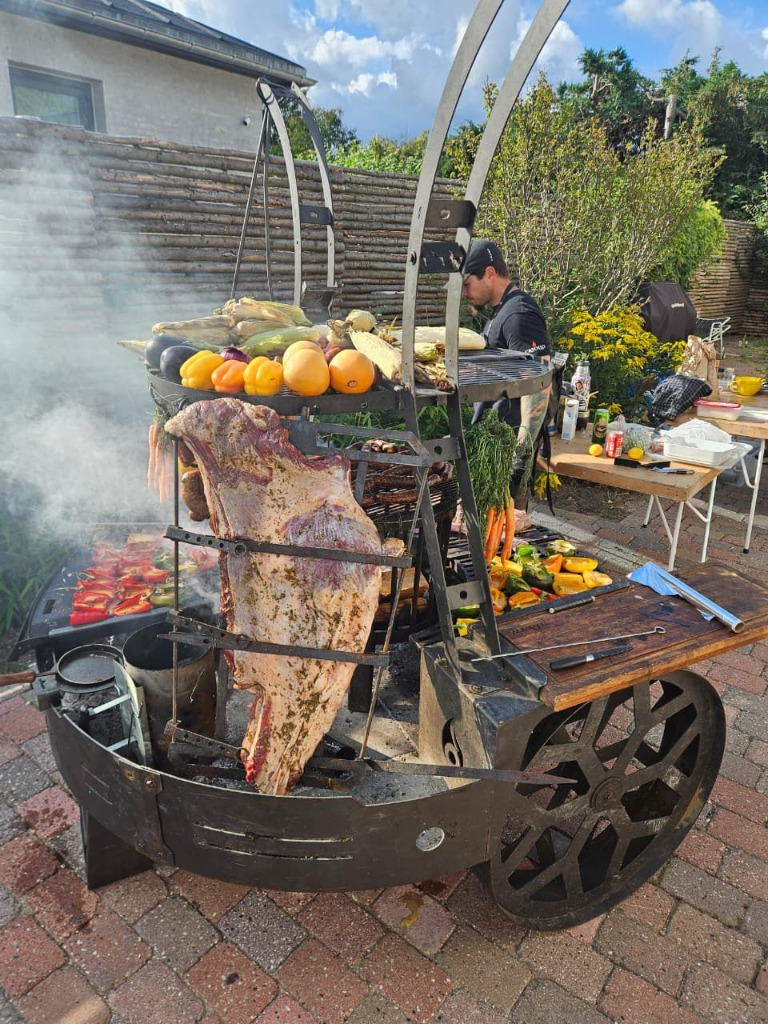
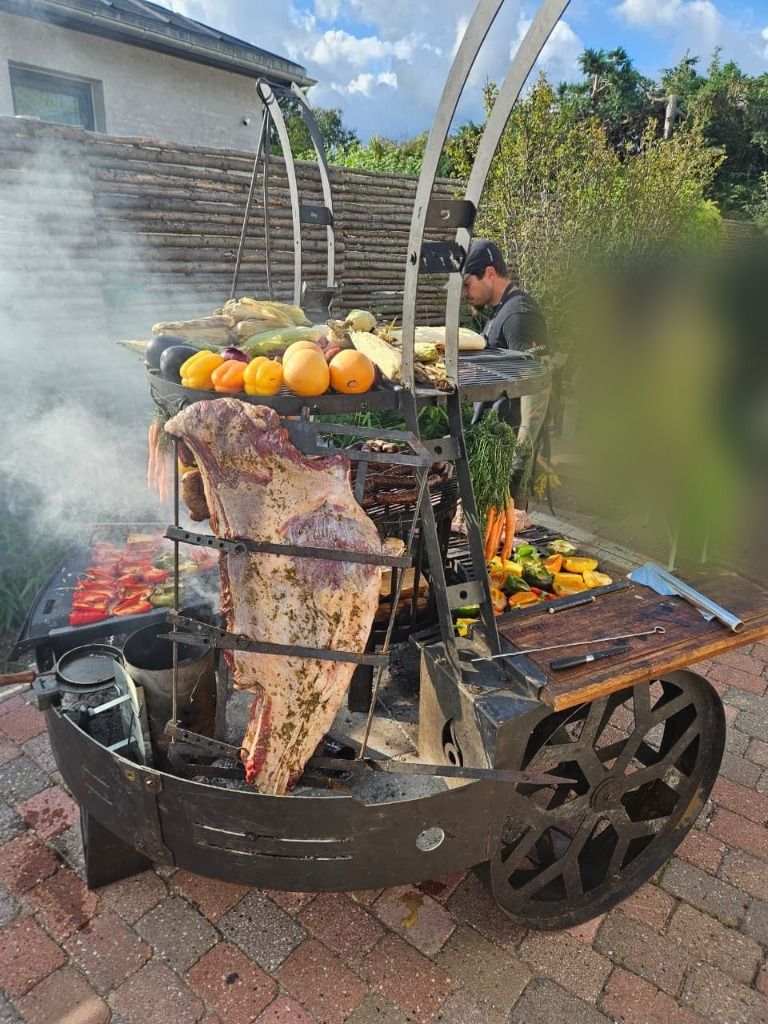
Blur and remove background tables on the right side of hero photo

Changed region(s): [[0.6562, 0.1875, 1.0, 0.5938]]

diff --git a/index.html b/index.html
@@ -56,7 +56,7 @@
     <link rel="preconnect" href="https://fonts.googleapis.com">
     <link rel="preconnect" href="https://fonts.gstatic.com" crossorigin>
     <link href="https://fonts.googleapis.com/css2?family=Cinzel:wght@400;700;900&family=Raleway:wght@300;400;500;600&display=swap" rel="stylesheet">
-    <link rel="stylesheet" href="css/styles.css?v=20">
+    <link rel="stylesheet" href="css/styles.css?v=21">
     <!-- Google tag (gtag.js) -->
     <script async src="https://www.googletagmanager.com/gtag/js?id=G-761TF78LM4"></script>
     <script>

diff --git a/css/styles.css b/css/styles.css
@@ -272,7 +272,7 @@ p  { font-size: 1.05rem; line-height: 1.7; color: var(--text-muted); font-weight
 .hero {
   height: 100vh;
   min-height: 700px;
-  background-image: url('../img/hero_domo_asado.jpg');
+  background-image: url('../img/hero_domo_asado.jpg?v=2');
   background-size: cover;
   background-position: center 55%;
   background-attachment: fixed;
